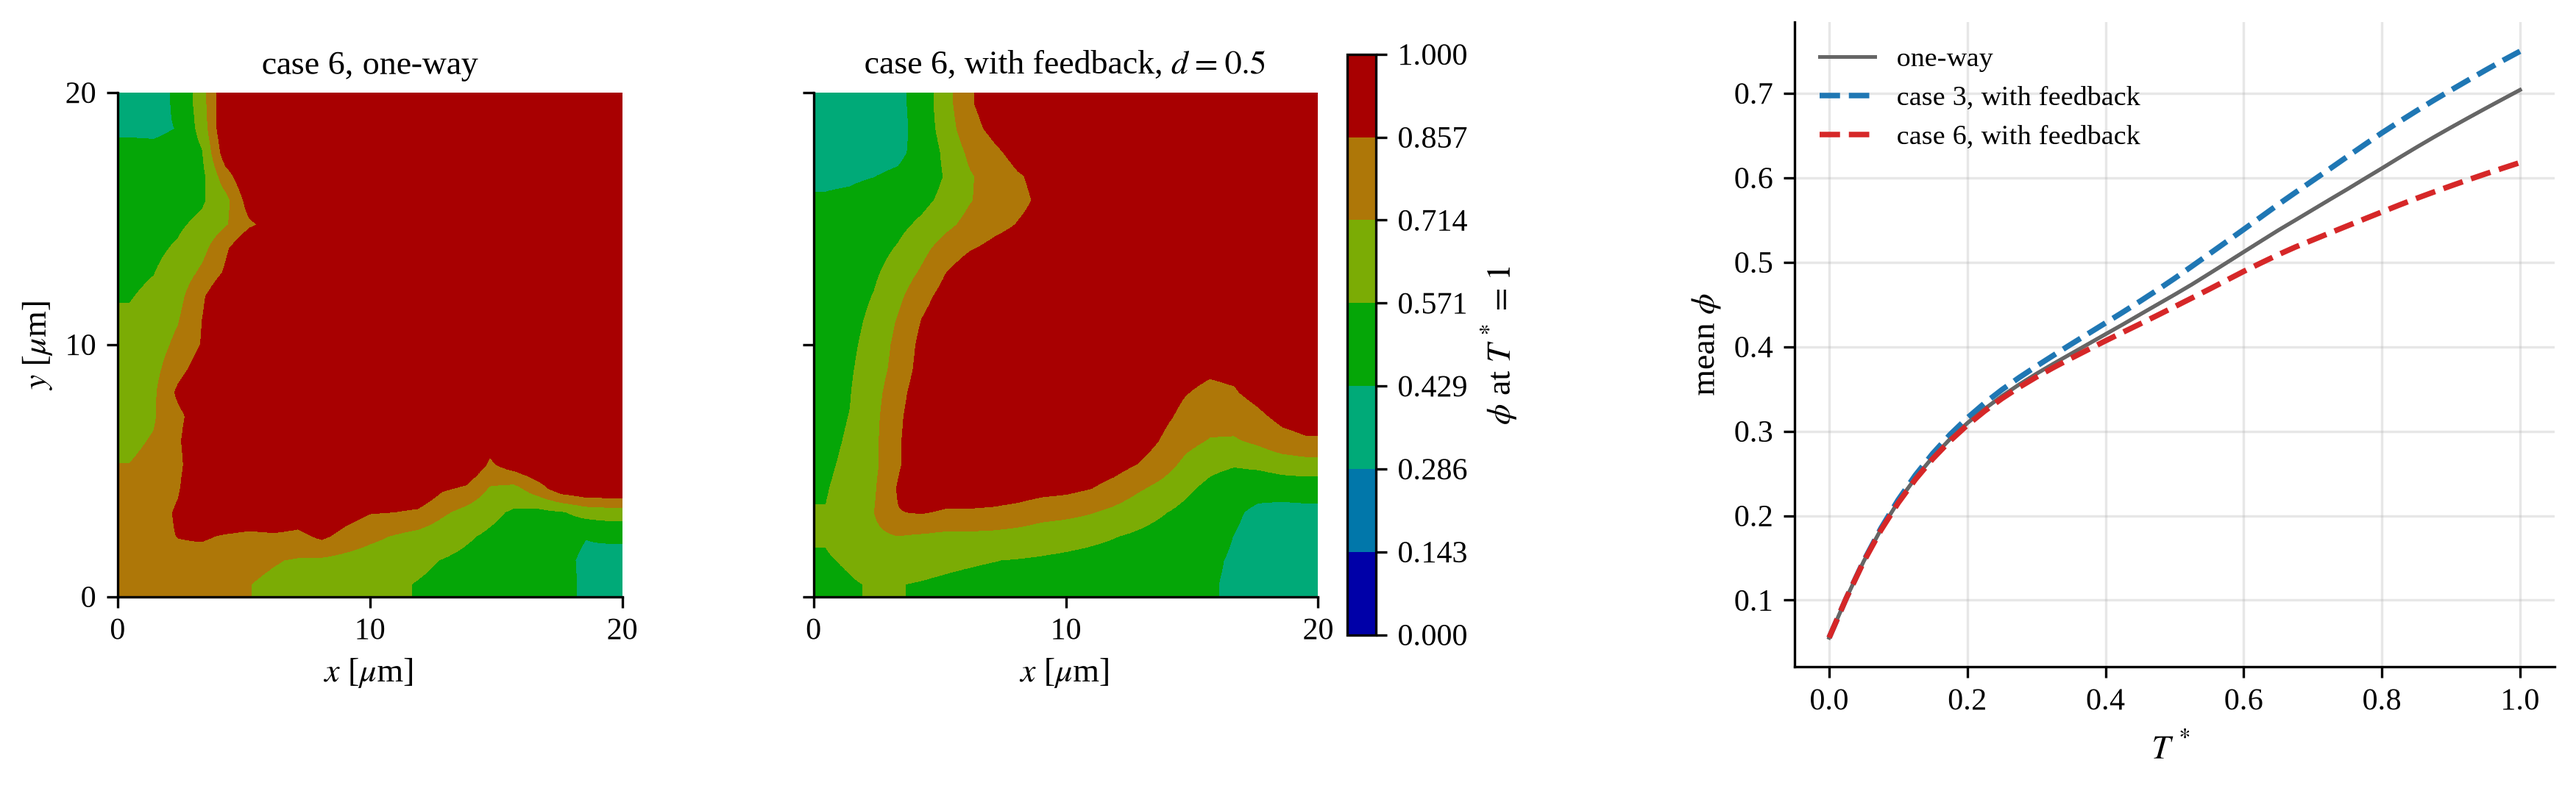
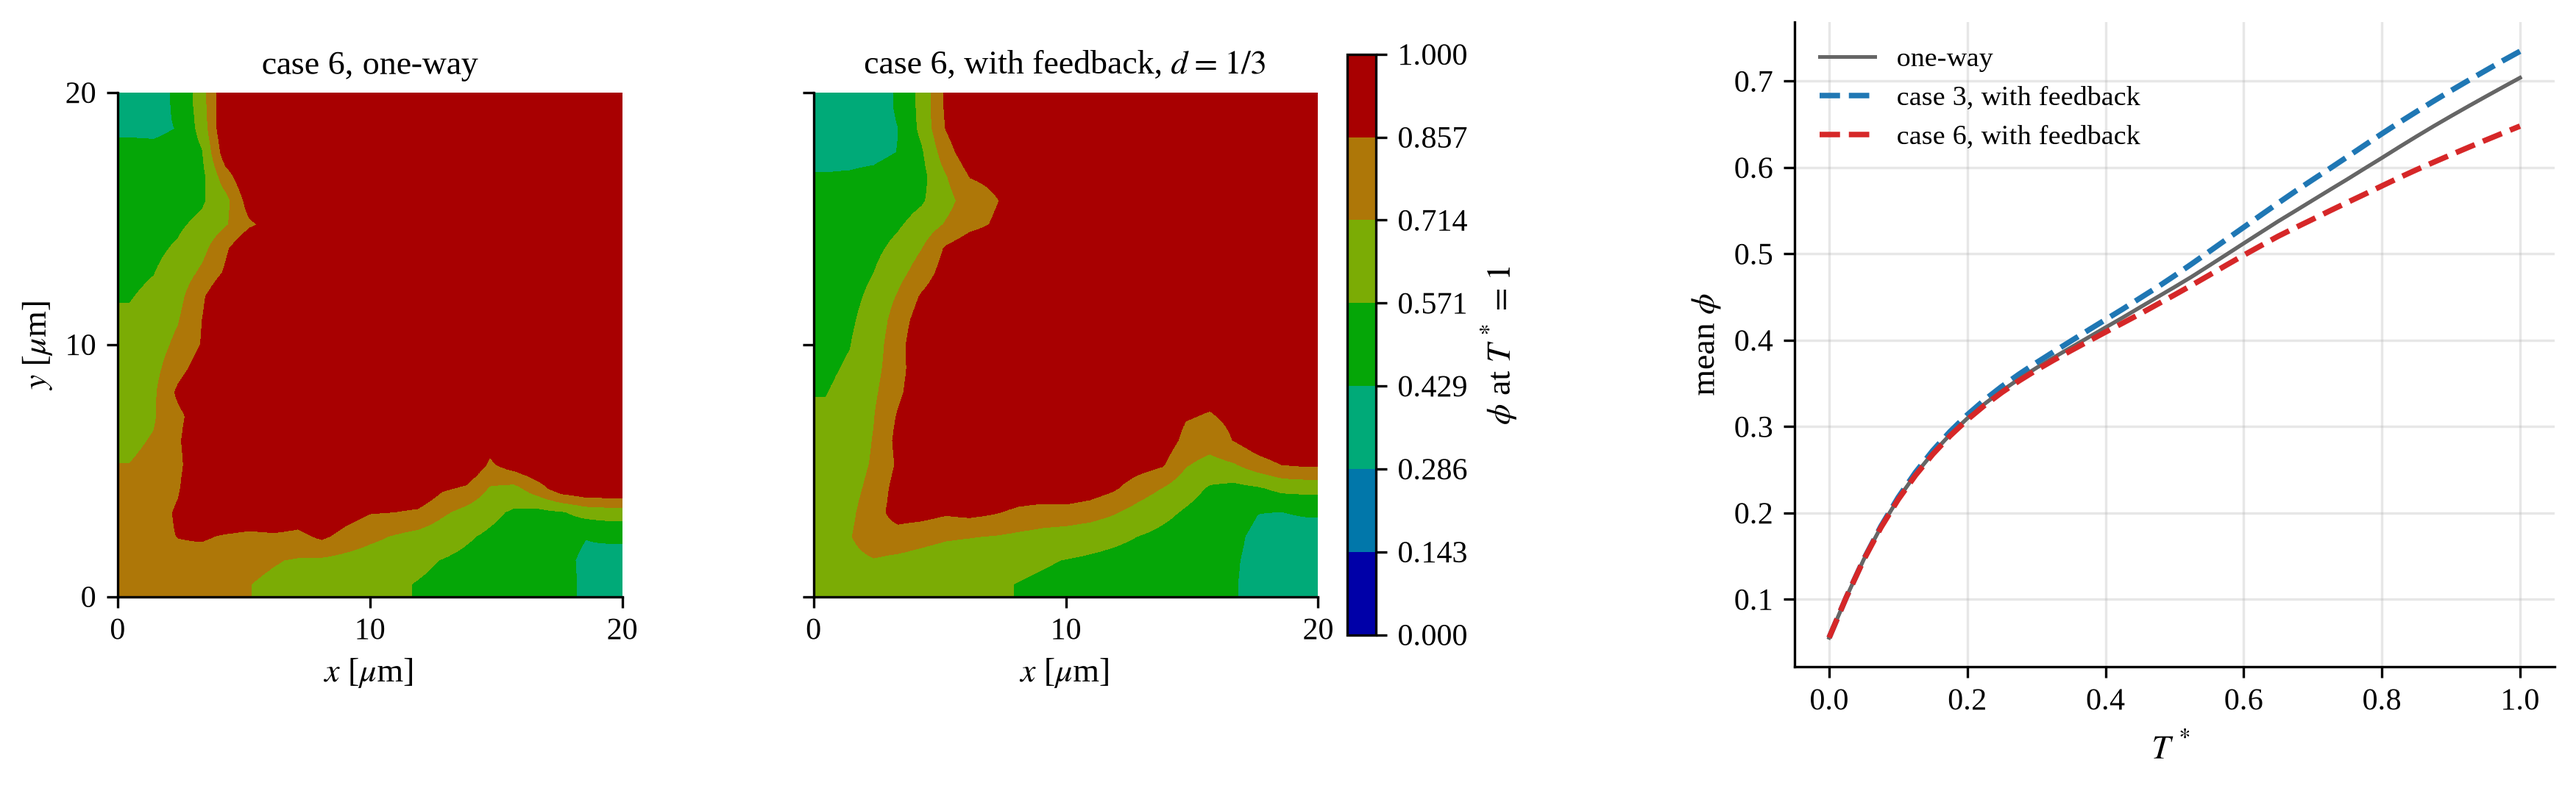
Two-way step 2: d = 1/3 from eta_1 = 1, eta_2 = 2 as the main value
Case 3 0.704 -> 0.735, case 6 0.704 -> 0.648 at T* = 1 (coupling step
0.025); d = 0.5 kept as sensitivity. Thesis figure redrawn at d = 1/3.

diff --git a/ansys_usermat/two_way_step2.py b/ansys_usermat/two_way_step2.py
@@ -21,7 +21,15 @@ With d = 0 the field is the one-way field (r unchanged, up to round-off).
 
     python ansys_usermat/two_way_step2.py -> assets/fig_two_way_step2.png
 
-Result (4 Oct 2026), T* = 1, d = 0.5 (species 1 grows 3x as fast as species 2),
+d = 1/3 (main value): the cases 3 and 6 of Klempt et al. 2026 have eta_1 = 1,
+eta_2 = 2, so species 1 relaxes twice as fast; r_1/r_2 = 2 gives d = 1/3. That
+the front rate scales like 1/eta_i is an assumption. At coupling step 0.025:
+case 3 0.704 -> 0.735, case 6 0.704 -> 0.648 (share 0.041 -> 0.046); largest
+pointwise change of phi 0.32 / 0.47. Thesis figure:
+    python ansys_usermat/two_way_step2.py --dt 0.025 --d 0.3333333333 --save s.npz
+    python ansys_usermat/two_way_step2.py --thesis s.npz
+
+Sensitivity, T* = 1, d = 0.5 (species 1 grows 3x as fast as species 2),
 mean phi one-way -> two-way and biomass-weighted share phi_1/(phi_1+phi_2):
   coupling step   case 3                   case 6
   0.1             0.704 -> 0.735 (0.656)   0.704 -> 0.599 (0.026 -> 0.033)
@@ -154,12 +162,14 @@ def thesis_figure(npz):
     caption carries it)."""
     figstyle.apply(size=11)
     z = np.load(npz)
+    dk = next(k.split("|")[1] for k in z.files if k.startswith("2sp_case6|") and k.split("|")[1] != "0.0")
+    dlab = "1/3" if abs(float(dk) - 1 / 3) < 1e-6 else f"{float(dk):g}"
     K = T.K
     kz = K.N // 2
     cmap, norm = figstyle.klempt_cmap()
     fig, ax = plt.subplots(1, 3, figsize=(12, 3.9), gridspec_kw={"width_ratios": [1, 1, 1.25]})
     fig.subplots_adjust(left=0.06, right=0.98, bottom=0.15, top=0.9, wspace=0.35)
-    for a, d, ttl in ((ax[0], 0.0, "one-way"), (ax[1], 0.5, "with feedback, $d=0.5$")):
+    for a, d, ttl in ((ax[0], "0.0", "one-way"), (ax[1], dk, f"with feedback, $d={dlab}$")):
         phi = z[f"2sp_case6|{d}|phi"]
         im = a.imshow(phi[:, :, kz].T, origin="lower", extent=(0, K.L, 0, K.L), cmap=cmap, norm=norm,
                       interpolation="bilinear")
@@ -173,7 +183,7 @@ def thesis_figure(npz):
     for c, col, lab in (("2sp_case3", "C0", "case 3"), ("2sp_case6", "C3", "case 6")):
         b.plot(z[f"{c}|0.0|t"], z[f"{c}|0.0|phi_mean"], color="0.4", lw=1.2,
                label="one-way" if c == "2sp_case3" else None)
-        b.plot(z[f"{c}|0.5|t"], z[f"{c}|0.5|phi_mean"], "--", color=col, lw=1.8, label=f"{lab}, with feedback")
+        b.plot(z[f"{c}|{dk}|t"], z[f"{c}|{dk}|phi_mean"], "--", color=col, lw=1.8, label=f"{lab}, with feedback")
     b.set_xlabel(r"$T^*$"); b.set_ylabel(r"mean $\phi$")
     b.legend(frameon=False, fontsize=9)
     fig.savefig(THESIS_OUT, dpi=300)

diff --git a/thesis/chapters/ch4_ansys.tex b/thesis/chapters/ch4_ansys.tex
@@ -820,12 +820,15 @@ $r_{1,2}=(1\pm d)\,r$; for $d=0$ the scheme is the one-way one. The same
 weighting follows from the two-species model of Soleimani et
 al.~\cite{Soleimani2023CoAggregation} when the growth sources of the two species,
 $R_{s,i}\,\phi_i\,c$, are summed; there the growth is a local reaction, here it is
-the front term of the field. That paper uses the same rate for both species, so
-$d$ remains a sensitivity parameter. With $d=0.5$
-the mean $\phi$ at $T^*=1$ rises from $0.704$ to $0.750$ in case~3, where the
-faster species is the majority, and falls to $0.618$ in case~6, where the slower
-species takes over; locally $\phi$ changes by up to $0.55$
-(Figure~\ref{fig:ch5-two-way}). The composition itself hardly changes. Which
+the front term of the field. That paper uses the same rate for both species. In cases~3 and~6 of Klempt et
+al.\ 2026 the second species has twice the dissipation of the first,
+$\eta_1=1$, $\eta_2=2$; assuming that the front rate of a species scales with
+$1/\eta_i$ gives $r_1/r_2=2$ and $d=1/3$. With $d=1/3$
+the mean $\phi$ at $T^*=1$ rises from $0.704$ to $0.735$ in case~3, where the
+faster species is the majority, and falls to $0.648$ in case~6, where the slower
+species takes over; locally $\phi$ changes by up to $0.47$
+(Figure~\ref{fig:ch5-two-way}). With $d=0.5$ the two values are $0.750$ and
+$0.618$. The composition itself hardly changes. Which
 species wins then decides how fast the biofilm spreads. The values are
 converged in the coupling step. In ANSYS this step needs a working front term.
 
@@ -835,7 +838,8 @@ converged in the coupling step. In ANSYS this step needs a working front term.
   \caption[Composition acting on the spreading]{%
     Composition acting on the spreading, computed in Python on the reproduced
     field of Klempt et al.\ 2024, test case~4.1 (mid-plane $z=10~\mu$m),
-    with species growth rates $r_{1,2}=(1\pm d)\,r$, $d=0.5$ (not from a paper).
+    with species growth rates $r_{1,2}=(1\pm d)\,r$, $d=1/3$ from $\eta_1=1$, $\eta_2=2$
+    of Klempt et al.\ 2026 (assumption: front rate $\propto1/\eta_i$).
     Left and middle: $\phi$ at $T^*=1$ for case~6 without and with the feedback
     (nutrient on the edge at the top right).
     Right: mean $\phi$ over time.}

diff --git a/ROADMAP_TWO_WAY.md b/ROADMAP_TWO_WAY.md
@@ -70,7 +70,10 @@ with a consumption strong enough for c to drop across the seed.
   realistic stress levels.
 - **Step 2, composition -> spreading** (`ansys_usermat/two_way_step2.py`, on the
   reproduced Klempt 2024 test case 4.1 field): front growth rate
-  r = sum chi_i r_i with r_1 = 1.5 r, r_2 = 0.5 r (not from a paper). At T* = 1
+  r = sum chi_i r_i with r_{1,2} = (1 +- d) r. d = 1/3 follows from eta_1 = 1,
+  eta_2 = 2 of Klempt 2026 cases 3 and 6 if the front rate scales like 1/eta_i
+  (assumption): case 3 0.704 -> 0.735, case 6 0.704 -> 0.648 (dt 0.025).
+  Sensitivity d = 0.5 (r_1 = 1.5 r, r_2 = 0.5 r): at T* = 1
   the mean phi goes from 0.704 to 0.750 in case 3 (the faster species is the
   majority) and to 0.618 in case 6 (the slower species takes over); phi changes
   by up to 0.41 / 0.55 locally, the composition hardly at all. Converged in the
